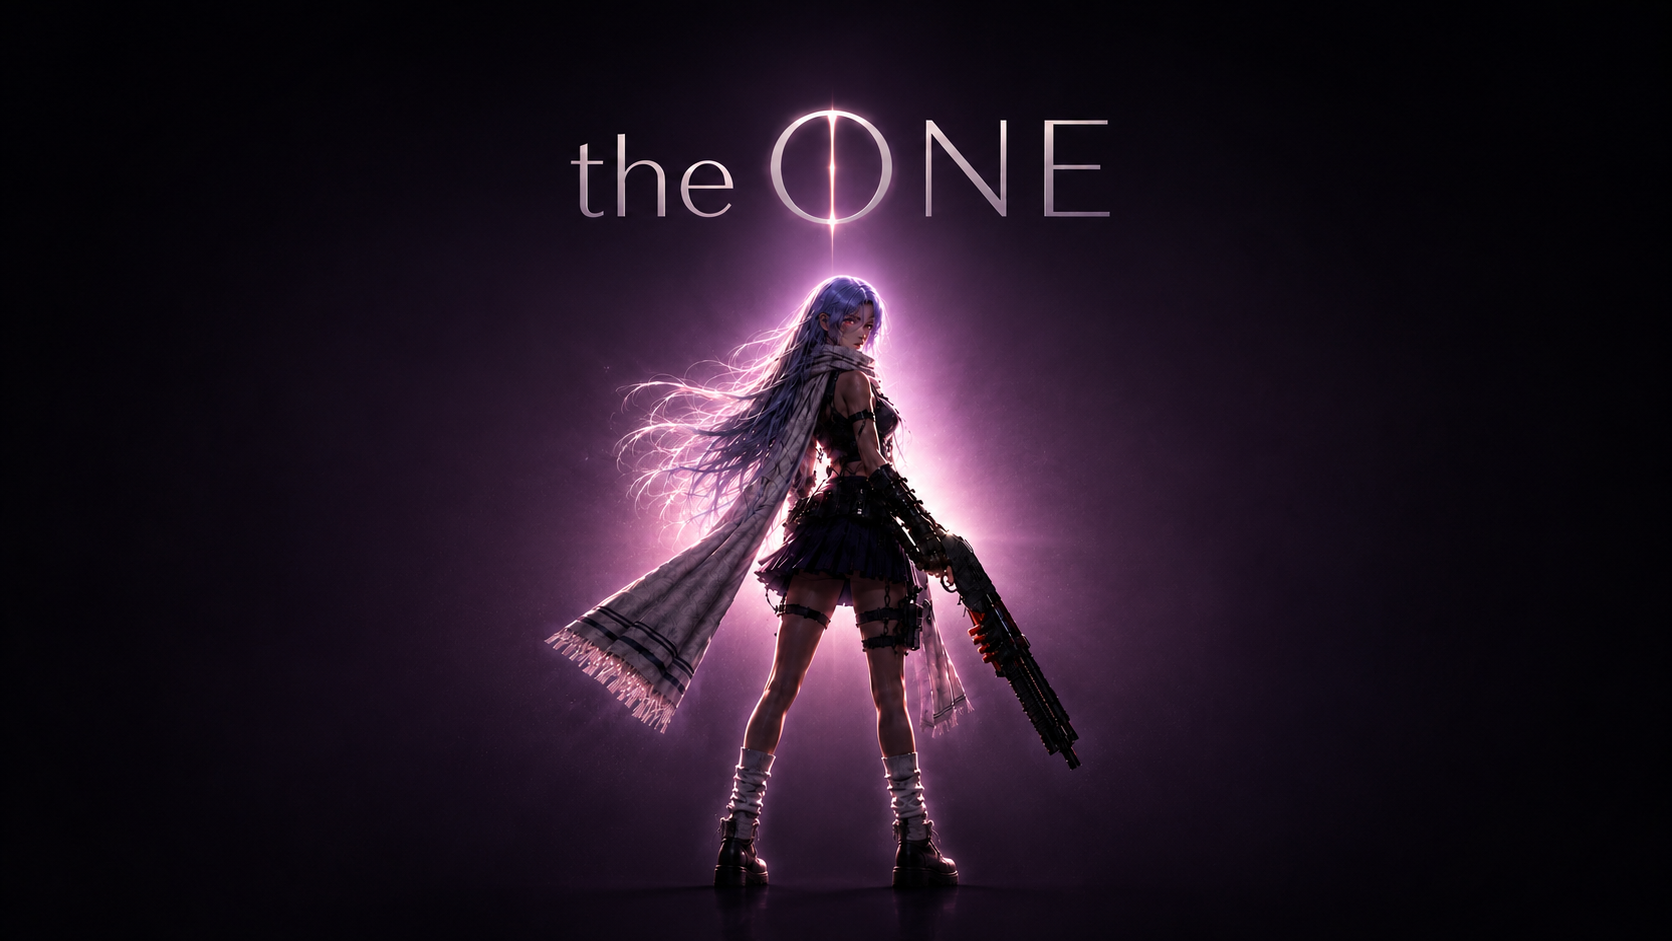
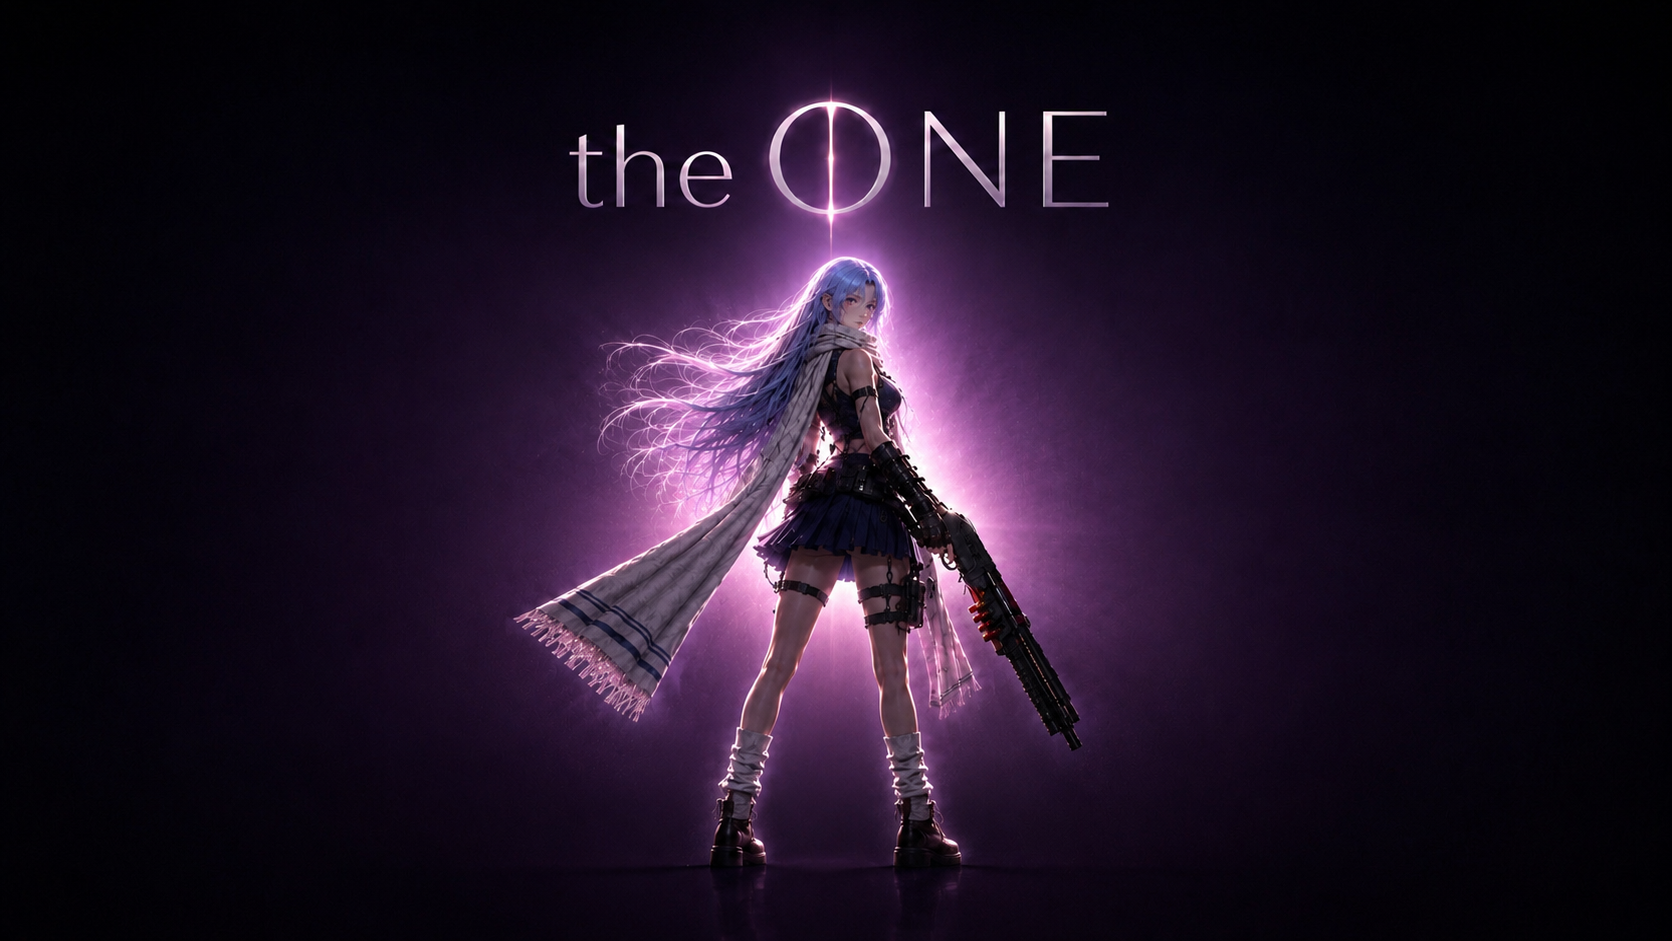
タイトル画像差し替え＋キャラ立ち絵をstage
- title-the-one.png を新素材へ(同寸1672x941ドロップイン)。img src に ?v=APP_VERSION でキャッシュ対策。
- キャラ選択用立ち絵4枚を public/sprites/portraits/ へ未配線で保管(直後の選択画面刷新で使用)。

Claude-Session: https://claude.ai/code/session_011547No4Fk2R9tVPC1tHaYa

Changed region(s): [[0.311, 0.0925, 0.6842, 0.9554]]

diff --git a/src/components/TitleScreen.tsx b/src/components/TitleScreen.tsx
@@ -61,7 +61,7 @@ const TitleScreen: React.FC<TitleScreenProps> = ({ onStart, waitForAssets, onDon
           clamp され、150vw 等を指定しても効かない(=埒が開かない原因だった)。overflow-hidden(root)で
           はみ出しはクリップ。width が寄り(ズーム)、aspect-square＋object-cover で左右だけクロップ。 */}
       <img
-        src={`${import.meta.env.BASE_URL}backgrounds/title-the-one.png`}
+        src={`${import.meta.env.BASE_URL}backgrounds/title-the-one.png?v=${encodeURIComponent(typeof __APP_VERSION__ === 'string' ? __APP_VERSION__ : 'dev')}`}
         alt=""
         draggable={false}
         className="pointer-events-none absolute left-1/2 top-1/2 aspect-square max-w-none -translate-x-1/2 -translate-y-1/2 object-cover"

diff --git a/DEVELOPMENT_LOG.md b/DEVELOPMENT_LOG.md
@@ -10,6 +10,13 @@ on the zombie game. Append a new entry after each meaningful change.
 - Local URL: `http://localhost:5173/zombie/` unless Vite chooses another port
 - Renderer under active development: PixiJS only
 
+## v0.25.1107 — タイトル画像差し替え＋キャラ立ち絵をstage(社長提供)
+
+- タイトル画像 `public/backgrounds/title-the-one.png` を新素材へ差し替え(1672×941・同寸ドロップイン)。
+  `TitleScreen` の img src に `?v=__APP_VERSION__` を付与=端末キャッシュで旧タイトルが残らないように。
+- キャラ選択用の立ち絵4枚を `public/sprites/portraits/`(portrait-shotgun/sniper/handgun/knife)へ未配線で保管。
+  ※直後の選択画面刷新で使用予定。
+
 ## v0.25.1106 — ステージ1冒頭会話を削除(社長指示)
 
 - 社長指示「ステージ1の冒頭の会話削除」。`campaign.ts` の stage-1 メイン(M1)の `dialogue`(時間停止・
